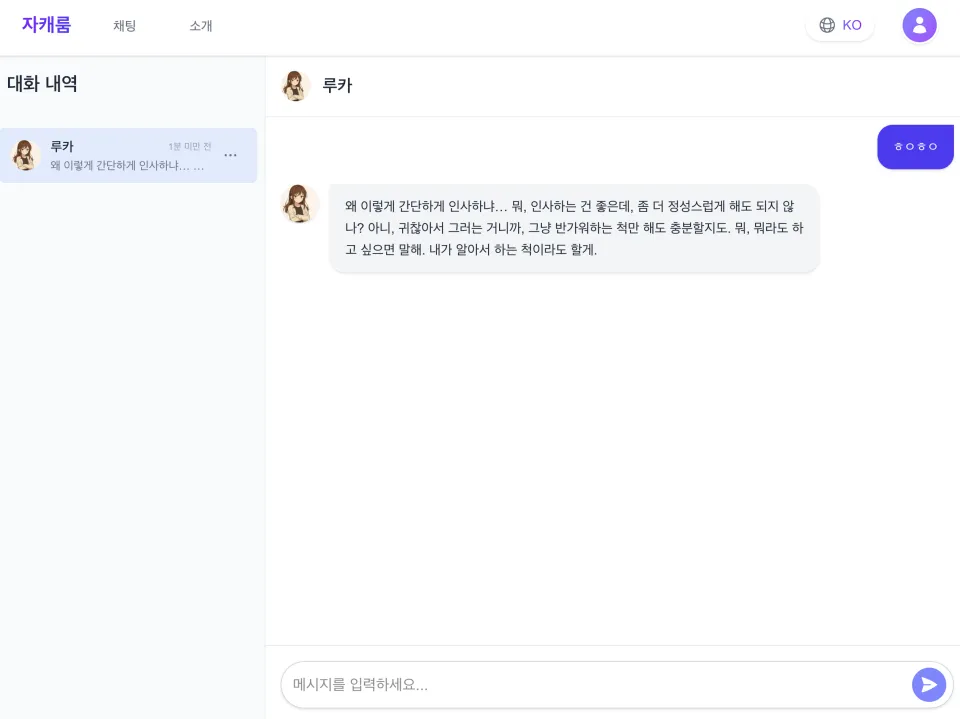
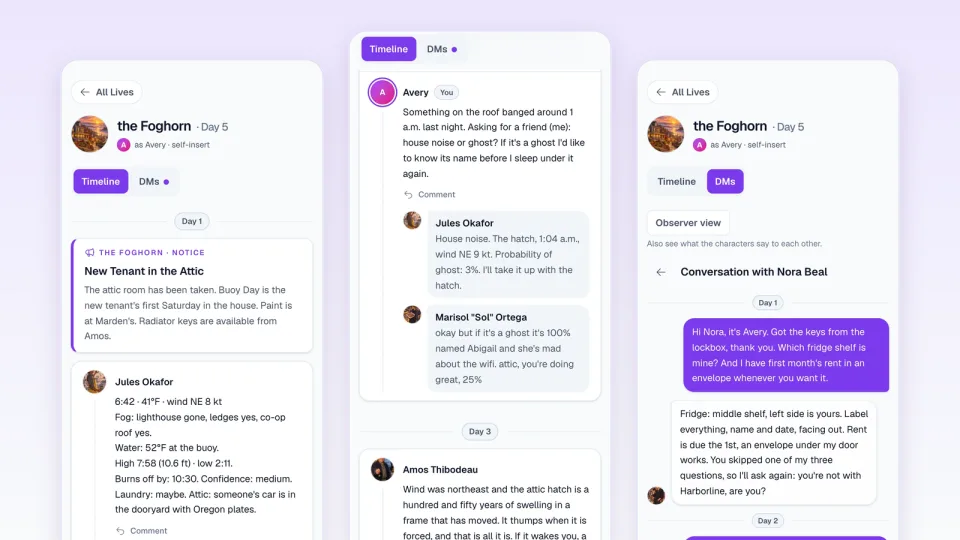
feat(projects): Riroa's image is its Live feed; resumes follow the rename
The previous commit carried the Charaloom-to-Riroa page rewrite (moved to
/projects/riroa/, the old URL redirecting) and renamed the images, but
missed their new content and the resume entries. The image is now three
real Live screens (feed, comments, DMs) in place of the old Charaloom chat
screenshot, and both resumes name Riroa, link its new page and add the
Live line.

diff --git a/resume-ko.html b/resume-ko.html
@@ -191,10 +191,10 @@ redirect_from:
         </article>
 
         <article class="resume-project">
-          <h3><a href="{{ '/projects/charaloom/' | relative_url }}">Charaloom</a></h3>
+          <h3><a href="{{ '/projects/riroa/' | relative_url }}">Riroa</a></h3>
           <p>
-            캐릭터와 세계관을 만들어 1:1 채팅, 그룹 채팅, 분기형 인터랙티브 스토리를 즐길 수 있는 AI 캐릭터 플랫폼이며, 풀스택으로 개발했습니다.
-            메시지를 수정하거나 답변을 다시 생성해도 이전 버전이 분기로 남고, 그룹 채팅은 턴마다 답할 캐릭터를 골라 한 명씩 차례로 답하게 합니다.
+            캐릭터와 세계관을 만들어 1:1 채팅, 그룹 채팅, 분기형 인터랙티브 스토리, 세계관 속 SNS인 Live를 즐길 수 있는 AI 캐릭터 플랫폼이며, 풀스택으로 개발했습니다.
+            Live는 모델 호출 한 번으로 등장인물 전원의 하루를 씁니다. 메시지를 수정하거나 답변을 다시 생성해도 이전 버전이 분기로 남고, 유료 턴은 멱등 크레딧 원장으로 먼저 차감하고, 실패한 턴은 사유별로 환불합니다.
           </p>
           <div class="project-tags">
             <span>Next.js</span>

diff --git a/resume.html b/resume.html
@@ -195,11 +195,12 @@ redirect_from:
         </article>
 
         <article class="resume-project">
-          <h3><a href="{{ '/projects/charaloom/' | relative_url }}">Charaloom</a></h3>
+          <h3><a href="{{ '/projects/riroa/' | relative_url }}">Riroa</a></h3>
           <p>
-            Full-stack AI character platform with one-on-one and group chat and branching interactive stories.
-            Edited messages and regenerated replies keep earlier versions as branches, and group chat picks which
-            characters answer each turn and has them reply one after another.
+            Full-stack AI character platform with one-on-one and group chat, branching interactive stories, and Live,
+            an in-world social feed where one model call writes each day for the whole cast. Edited messages and
+            regenerated replies keep earlier versions as branches, and paid turns run on an idempotent credit ledger
+            that charges up front and refunds failed turns by reason.
           </p>
           <div class="project-tags">
             <span>Next.js</span>
